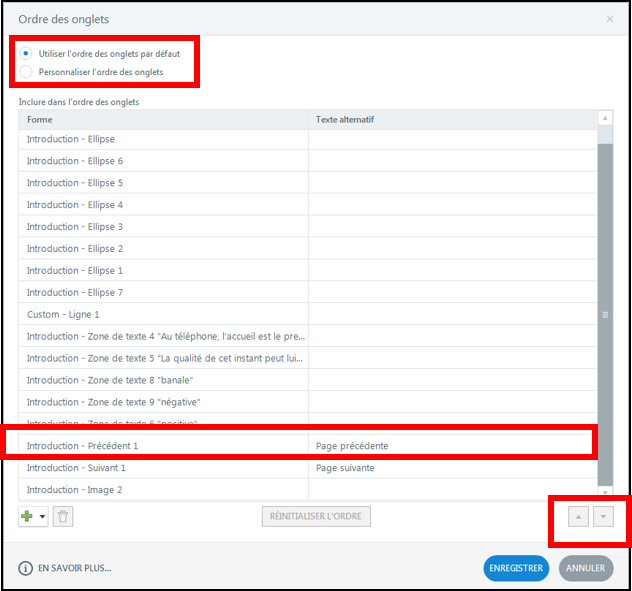
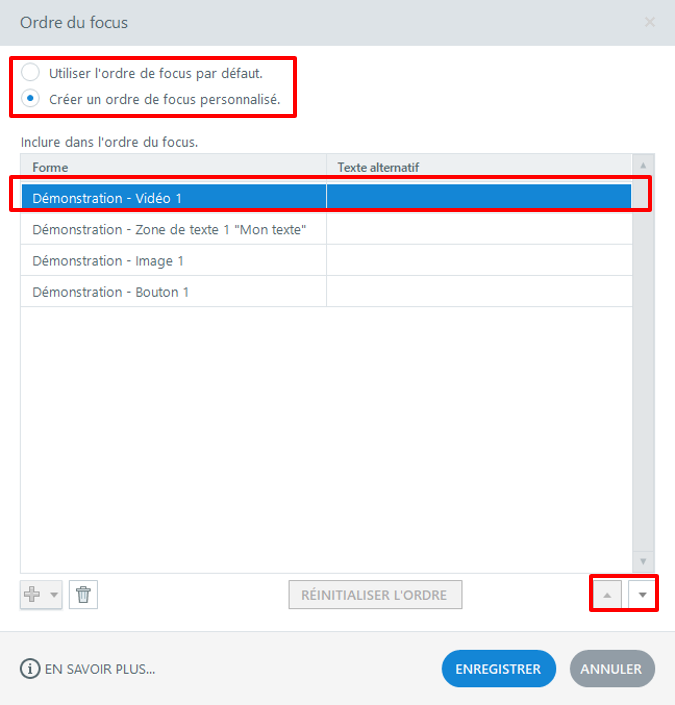
storyline 360 v1

Changed region(s): [[0.0, 0.0, 1.0, 1.0]]

diff --git a/src/fr/contenu-editorial/e-learning/index.md b/src/fr/contenu-editorial/e-learning/index.md
@@ -1,7 +1,10 @@
 ---
-title: "Storyline 3 - E-learning"
+title: "Storyline 360 - E-learning"
 ---
-# Recommandations Storyline 3
+# Recommandations Storyline 360
+
+Recommandations pour la création de présentation elearning accessible.
+En complément <a href="./fr/contenu-editorial/">les recommandations éditoriales générales</a> (couleurs, faciliter la lecture, etc...) sont également à appliquer, mais non décrites dans cet article.
 
 ## Personnaliser l’expérience utilisateur dès le début
 
@@ -39,6 +42,16 @@ Il s'agit de permettre aux utilisateurs qui ne peuvent pas utiliser la souris (n
 - Ne pas utiliser des systèmes nécessitant exclusivement la souris, tels que : 
 	- le drag n’ drop 
 	- l’état « survol » pour transmettre des informations importantes
+
+### Rendre le focus visible en toute circonstance
+
+La visualisation du focus permet aux utilisateurs clavier de se réperer dans leur parcours de navigation.
+
+1. Activer "Propriétes du lecteur"
+2. Sélectionner "Couleurs & effets"
+3. Modifier la couleurs par défaut du focus
+
+ <img alt="" src="/fr/contenu-editorial/images/storyline-focus.png" class="img-fluid mx-auto d-block">  &nbsp;
   
 ## S’assurer que l’utilisateur garde le contrôle lors des interactions
 
@@ -73,109 +86,178 @@ Pour tous les utilisateurs, quel que soit leur moyen de naviguer (lecteur d’é
 
 ### Procédure
 
-1. Activer la fonction « Ordre des onglets »
-2. La boîte de dialogue « Ordre des onglets » s’ouvre. Celle-ci centralise tous les éléments du slide
-3. Sélectionner « personnaliser l’ordre des onglets »
+1. Activer la fonction « Ordre du focus »
+2. La boîte de dialogue « Ordre du focus » s’ouvre. Celle-ci centralise tous les éléments du slide
+3. Sélectionner « Créer un ordre de focus personnalisé »
 4. Sélectionner un élément
 5. Utiliser les flèches « haut / bas » pour modifier l’ordre de l’élément
 6. Activer « enregistrer »
 
 <img alt="" src="/fr/contenu-editorial/images/storyline-order-1.png" class="img-fluid mx-auto d-block">
 
+<figure class="figure">
 <img alt="" src="/fr/contenu-editorial/images/storyline-order-2.png" class="img-fluid mx-auto d-block">
-
-### Couleurs et contrastes 
-
-Assurer un niveau de [contraste suffisant entre la couleur du texte et celle de l’arrière-plan](/fr/web/designer/couleurs-et-contrastes/#assurer-un-contraste-suffisant-entre-les-couleurs-de-premier-plan-et-de-fond). Ceci est valable pour vos textes mais aussi pour les icônes, boutons et autres éléments graphiques porteurs d'information. Le contraste peut être vérifié à l’aide de l’outil [Colour Contrast Analyser](https://www.paciellogroup.com/resources/contrastanalyser/) par exemple :
-* 4.5:1 pour du texte de taille normale.
-* 3:1 pour du [texte de grande taille](/fr/glossaire/#texte-de-grande-taille) et les composants d'interface ou éléments graphiques porteurs d'informations.
-
-S’assurer que [la couleur n’est pas le seul moyen utilisé pour communiquer l’information](/fr/web/designer/couleurs-et-contrastes/#ne-pas-utiliser-la-couleur-ou-linformation-sensorielle-comme-seule-source-dinformation).
-Certaines personnes ne perçoivent pas ou mal les couleurs, il est donc primordial d’utiliser un moyen suppléant la couleur pour véhiculer l’information.
-
-<figure>
-  <img src="/fr/contenu-editorial/images/color-ko.png" alt="" />
-  <figcaption><strong>Exemple incorrect</strong> : l'information est transmise uniquement par la couleur.</figcaption>
+<figcaption class="figure-caption">L’ordre des éléments à l’écran, ne correspond pas toujours à l’ordre des éléments dans le code source.
+L’ordre des éléments dans le code source, va avoir un impact lors de la lecture depuis une aide technique, comme un lecteur d’écran par exemple.
+</figcaption>
 </figure>
+
+## Donner un titre à la présentation et aux diapositives
+
+### Titre de présentation
+
+Le titre de présentation doit être explicite.
+Il permet aux utilisateurs finaux d'identifier la formation dans leur navigateur.
+Ceci est particulièrement important pour les utilisateurs de lecteurs d'écran.
+
+<figure class="figure">
+<img alt="" src="/fr/contenu-editorial/images/titre-formation.png" class="img-fluid mx-auto d-block">
+<figcaption class="figure-caption">Cliquer sur Publier, puis renseigner le champ Titre.
+</figcaption>
+
+</figure>
+<figure class="figure">
+<img alt="" src="/fr/contenu-editorial/images/onglet-formation.png" class="img-fluid mx-auto d-block">
+<figcaption class="figure-caption">Le titre apparaît dans l'onglet du navigateur.
+</figcaption>
+</figure>
+
+### Titre de diapositive
+
+Le titre de diapositive doit également être explicite.
+Il permet aux utilisateurs finaux de comprendre le contexte de chaque nouvelle diapositive.
+Notamment les utilisateurs de lecteurs d'écran, en effet cet élément sera vocalisé automatiquement à l'arrivée sur un nouveau diaporama.
+
+<img alt="" src="/fr/contenu-editorial/images/titre-diapo.png" class="img-fluid mx-auto d-block">  &nbsp;
+
+## Structurer le contenu avec des titres de niveaux
+
+Appliquer des styles de titre sur les texte présentés comme des titres.
+Les titres de niveaux sont essentiels aux utilisateurs de lecteurs d'écran pour leur permettre de comprendre et naviguer au sein du contenu.
+
+<img alt="" src="/fr/contenu-editorial/images/storyline-titre-niveau.png" class="img-fluid mx-auto d-block">  &nbsp;
+
+## Fournir des textes alternatifs pertinents 
+
+Le texte de remplacement est primordial pour les utilisateurs non-voyants.
+C’est ce contenu qui sera vocalisé.
+
+<figure class="figure">
+<img alt="" src="/fr/contenu-editorial/images/alt-images.png" class="img-fluid mx-auto d-block">
+<figcaption class="figure-caption">
+Liste de 3 boutons (anticiper, gérer, communiquer), basés sur des images.
+
+- *Alternative non valide :* bouton-gerer-1.png
+- *Alternative valide :* Gérer
+
+</figcaption>
+</figure>
+
+### Recommandations
+
+- Pour les images porteuses de texte, le texte alternatif reprend  le contenu textuel présent dans l’image
+- Pour les boutons et autres éléments de formulaire, le texte alternatif convoie la cible ou l’action portée par le bouton
+- Il est contreproductif de commencer les textes par « image de ». Il faut être concis et fournir uniquement l’information nécessaire pour l’utilisateur
+- Éviter les abréviations et la répétition d’éléments de ponctuation
+
+<figure class="figure">
+<img alt="" src="/fr/contenu-editorial/images/alt-images-infos.png" class="img-fluid mx-auto d-block">
+<figcaption class="figure-caption">
+Exemple d’une image porteuse d’information :
+
+- *Alternative non valide :* coche.png
+- *Alternative valide :* séquence déficient auditif déjà consultée
+</figcaption>
+</figure>
+
+### Procédures
+1. Activer la fonction « Ordre du focus »
+2. La boîte de dialogue « Ordre du focus » s’ouvre. Celle-ci centralise tous les éléments d’une slide
+3. Renseigner le texte alternatif des boutons ou des objets porteurs d’information
+4. Cliquer sur « Enregistrer »
+
+<img alt="" src="/fr/contenu-editorial/images/storyline-order-1.png" class="img-fluid mx-auto d-block mb-1">
+<img alt="" src="/fr/contenu-editorial/images/storyline-order-3.png" class="img-fluid mx-auto d-block">  &nbsp;
+
+
+## Masquer les images décoratives
+
+Une image est considérée comme décorative lorsqu'elle n'apporte pas d’information supplémentaire à la compréhension d'un texte ou d'une fonctionnalité.
+
+Les bénéfices pour les utilisateurs : 
+- Alléger la vocalisation, en évitant la lecture d’information inutile à la compréhension du contenu.
+- Alléger la navigation clavier en supprimant des éléments inutiles du parcours clavier.
+
+<figure class="figure">
+<img alt="" src="/fr/contenu-editorial/images/image-deco-1.png" class="w-50 pr-1 float-left">
+<img alt="" src="/fr/contenu-editorial/images/image-deco-2.png" class="w-50 float-left">
+<figcaption class="figure-caption">
+Exemples d'images décoratives, dans ces contextes, le personnages ou la pied de table n'apportent pas d'informations.
+Ils peuvent donc être masqués aux utilisateurs d'aides techniques.
+</figcaption>
+</figure>
+
+### Recommandation
+Masquer l’élément aux lecteurs d’écrans afin d’éviter le bruit à la vocalisation.
+
+### Procédure
+1. Click droit sur l’image.
+2. Sélectionner « Accessibilité » dans le menu.
+3. La boîte de dialogue « taille et position » s’ouvre.
+4. L'onglet "Accessibilité" est ouvert par défaut.
+5. Décocher la case « L’objet est visible… ».
+6. Cliquer sur «fermer ».
+
+<img alt="" src="/fr/contenu-editorial/images/hide-image.png" class="img-fluid mx-auto d-block mb-1">
+<img alt="" src="/fr/contenu-editorial/images/hide-image-2.png" class="img-fluid mx-auto d-block">  &nbsp;
+
+
+## Indiquer la langue principale du document
   
-&nbsp;
+Permettre aux utilisateurs de synthèse vocale d'adapter la vocalisation par rapport à la langue du contenu.
 
-<figure>
-  <img src="/fr/contenu-editorial/images/color-ok.png" alt="" />
-  <figcaption><strong>Exemple correct</strong> : l'information est transmise par la forme et la couleur.</figcaption>
-</figure>
+### Recommandation
 
-## Listes à puces ou numérotées  
-Eviter de créer manuellement des listes, utiliser le style « liste » (à puces ou numérotées) pour énumérer les éléments de même nature.
+Masquer l’élément aux lecteurs d’écrans afin d’éviter le bruit à la vocalisation.
 
-<img alt="" src="/fr/contenu-editorial/images/puce.png" class="img-fluid">  &nbsp;
+### Procédure
+1. Sélectionner « lecteur – modifier les propriétés du lecteur ».
+2. Sélectionner « étiquettes de texte »
+3. Dans le menu déroulant « langue », sélectionner la langue correspondant au document.
+4. Modifier les textes dans la colonne « texte personnalisé ».
+5. Cliquer sur « OK »
 
-## Images
-Un document peut contenir des images et être accessible, il faut simplement que l’information portée par l’image soit retranscrite textuellement. 
-- **Pour les images porteuses d’informations** : associer un texte de remplacement décrivant le contenu informatif via un `clic droit > Format de l’image > Texte de remplacement > champ « Description »`.
-- **Pour les images décoratives/illustratives** : laisser le champ `description` vide.
-- **Pour les images informatives complexes** : rédiger un court texte de remplacement et une description détaillée située à proximité de l’image (ou accessible via un lien). Exemple disponible dans [le guide du concepteur RGAA](https://disic.github.io/guide-concepteur/1-images.html#exemple-dune-image-complexe-avec-une-description-d%C3%A9taill%C3%A9e)
-
- <img alt="" src="/fr/contenu-editorial/images/remplacement.png" class="img-fluid">
-
-Pour les graphiques ou schémas : utiliser les composants `SmartArt` plutôt que des images (menu `Insertion > SmartArt`).  
-Le contenu informatif des graphiques doit être décrit dans le texte de remplacement (`Format de l’objet ou de l’image > Texte de remplacement > Description`). 
-
-## Liens
-Une personne non-voyante va, pour naviguer plus rapidement dans un document, demander à son lecteur d’écran de lui lire l’ensemble des liens présents sur une page. Chaque lien sera donc lu en dehors de son contexte visuel et doit donc se suffire à lui-même : 
-* Rédiger des intitulés de liens explicites (compréhensibles hors contexte visuel de la page).
-* Annoncer les liens qui déclenchent l’ouverture d’une nouvelle fenêtre (ajouter « nouvelle fenêtre » dans le libellé).
-<img alt="" src="/fr/contenu-editorial/images/lien.png" class="img-fluid">  &nbsp;
-* Pour chaque fichier téléchargeable, indiquer le nom, le format, le poids et la langue du fichier si celle-ci est différente de la langue principale du document.
-
-## Tableaux de données / tableaux de présentation 
-Les tableaux peuvent être difficilement consultables, pour un non-voyant, par exemple. Il faut donc les utiliser avec parcimonie et les structurer le plus simplement possible : 
-* Éviter de fusionner des cellules, d’insérer des images ou de laisser des cellules vides.
-* Ajouter une description s'il s'agit d'un tableau complexe, clic droit : `Format de la forme > Texte de remplacement > Description`
-
-**Important :** Ne pas utiliser les tableaux à des fins de mise en forme.
+<img alt="" src="/fr/contenu-editorial/images/storyline-langue-1.png" class="img-fluid mx-auto d-block mb-1">  &nbsp;
 
 ## Contenus audio ou vidéo
-La communication audiovisuelle est aujourd’hui très fréquente en entreprise. Mais parce que certaines personnes peuvent ne pas voir ou ne pas entendre il est primordial de suppléer l’information transmise dans une modalité par une autre :
-* Fournir une transcription intégrale des contenus audio (solution nécessaire et suffisante).
-* Empêcher toute lecture automatique de contenu vidéo ou audio (menu `Animations` : démarrer au clic).
 
-<img alt="" src="/fr/contenu-editorial/images/video.png" class="img-fluid">  &nbsp;
+- Fournir une transcription aux audios et vidéos
+- Ne pas lancer l’audio ou la vidéo automatiquement
+- Si le média se lance automatiquement, s’assurer que l’utilisateur a la possibilité de l’arrêter manuellement
 
-Tout contenu vidéo doit respecter ces prérequis :
-- Fournir des sous-titres pour restituer l’ensemble des informations véhiculées par la bande son.
-- Fournir une audiodescription si la vidéo présente des informations accessibles seulement via les images.
-- Utiliser des vidéos sans flashs rapides (pas plus de 3 clignotements par seconde).
+<img alt="" src="/fr/contenu-editorial/images/lancement-auto.png" class="img-fluid mx-auto d-block">  &nbsp;
+
+### Audios accessibles
+
+Certaines formations possèdent une vocalisation de chaque slide (voix off) :
+
+- Si la voix fournie des informations non présentes dans le contenu du slide, des sous-titres sont alors nécessaires.
+Storyline permet la création de sous-titres synchronisés.
+- S’assurer que l’ensemble du contenu textuel du slide soit vocalisé, afin de ne pas induire en erreur les utilisateurs non-voyants qui pourraient se reposer uniquement sur l’audio et ne pas consulter manuellement tout le contenu du slide.
+
+<figure class="figure">
+<img alt="" src="/fr/contenu-editorial/images/activer-sous-titre.png" class="img-fluid mx-auto d-block">
+<figcaption class="figure-caption">
+Donner la possibilité aux utilisateurs d'activiter les sous-titres dès le début de la présentation.
+</figcaption>
+</figure>
+
+### Vidéos accessibles
 
 Consultez [nos recommandations sur les contenus audio et vidéo](/fr/contenu-editorial/composants-animes) pour en savoir plus.
 
-## Ordre de lecture des éléments
-L’ordre de lecture qui sera suivi par une synthèse vocale peut être vérifié depuis le volet de sélection (menu `Accueil > Organiser > Volet de sélection`).  
-**Attention** : l’ordre doit être décroissant car c’est le dernier élément de la liste qui est lu en premier par le lecteur.
-
-<img alt="" src="/fr/contenu-editorial/images/volet.png" class="img-fluid">  &nbsp;
-
-Il est important de vérifier cet ordre directement dans les masques des diapositives.
-
-## Vérificateur d’accessibilité intégré
-Il est important de contrôler l’accessibilité de la présentation à l'aide du vérificateur d’accessibilité (menu : `Fichier > Vérifier la présence de problèmes > Vérifier l’accessibilité`).
-<img alt="" src="/fr/contenu-editorial/images/verificateur.png" class="img-fluid">  &nbsp;
-
-## Convertir une présentation PowerPoint en fichier PDF
-
-Une fois que vous aurez vérifié l'accessiblité de votre présentation (voir la rubrique [Tester l'accessibilité d'une présentation PowerPoint](/fr/contenu-editorial/powerpoint/tester)), vous pouvez convertir la présentation en <abbr>PDF</abbr> : `Fichier > Enregistrer sous` et de sélectionner le type de fichier <abbr>PDF</abbr>.
-Cocher la case « Balises de structure de document pour l'accessibilité ».
-
-<img alt="" src="/fr/contenu-editorial/images/export.png" class="img-fluid">  &nbsp;
-
-Remarque : pour les présentations de plus de 50 diapositives, il faut conseiller aux lecteurs de modifier le paramètre suivant dans Adobe :
-`Édition > Préférences > Lecture > Option de lecteur d’écran` : « Lire l’intégralité du document »
-
-<img alt="" src="/fr/contenu-editorial/images/adobe.png" class="img-fluid">  &nbsp;
-
-Pour vérifier l’accessibilité d’un document PDF, consultez la [rubrique PDF accessible de notre site](/fr/contenu-editorial/pdf/).
-
 ## Ressources
 
-- [Créer des documents bureautiques accessibles](https://disic.github.io/guides-documents_bureautiques_accessibles/html/), <abbr title="direction interministérielle du numérique et du système d’information et de communication">DINSIC</abbr> (français).
-- <a href="https://webaim.org/techniques/powerpoint/" hreflang="en">Accessibilité PowerPoint, WebAIM</a> (anglais).
+- <a href="https://articulate-heroes.s3.amazonaws.com/uploads/attachment/attachment_url/24511/Storyline_accessibility_guide.pdf?dl=true" hreflang="en" lang="en">Designing Accessible E-Learning Using Articulate Storyline (pdf, anglais)</a>.
+- <a href="https://www.ucop.edu/electronic-accessibility/_files/creating-accessible-ecourses.pdf" hreflang="en" lang="en">Creating Accessible eCourses (pdf, anglais)</a>.
+- <a href="http://generic.wordpress.soton.ac.uk/digital-learning/2019/01/28/accessibility-for-articulate-storyline-are-you-wcag-compliant/" hreflang="en" lang="en">Accessibility for Articulate storyline – Are you WCAG compliant? (anglais)</a>.
